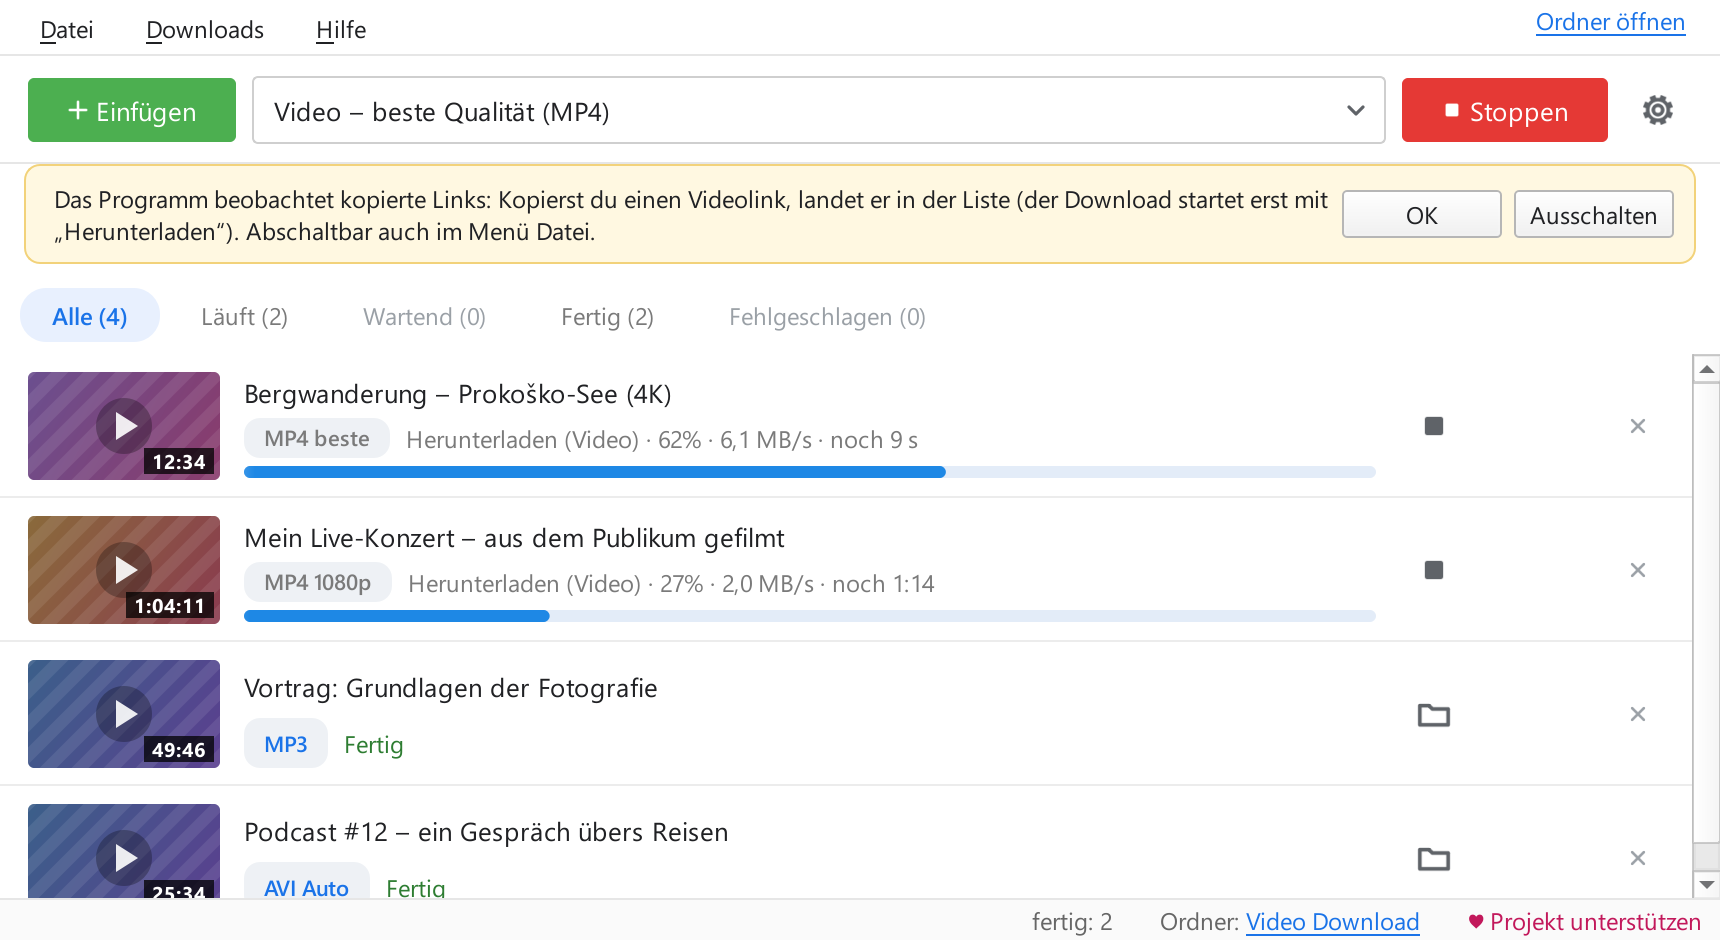
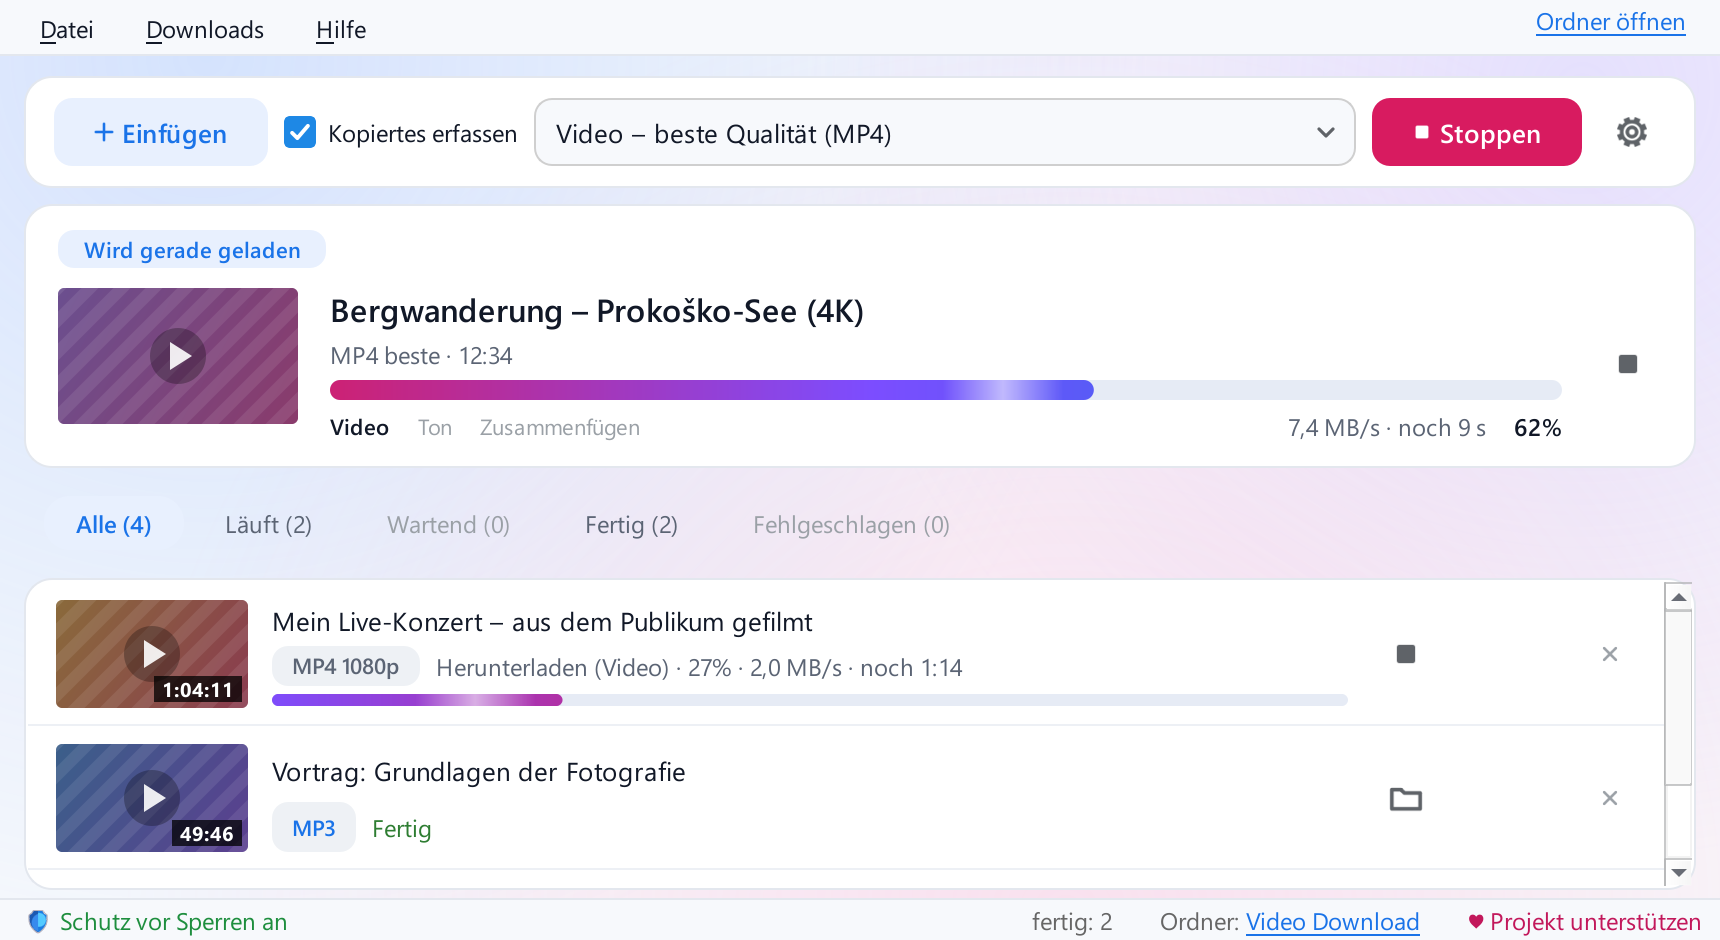
Sajt: novi snimci glavnog prozora s karticom „Sada i sljedeće" (5 jezika, svijetla i tamna tema)
tools/store_screenshots.py (koristi ga i site_screenshots.py): kartica dobija niz izmišljenih javljanja
napretka (traka, procenat, grafikon brzine), briše se prije svakog snimka (inače ostaje na prethodnom
jeziku), a snimak se pravi tek kad trake doklize do vrijednosti. Store snimci (1366×768) napravljeni u
Build/store-snimci, nisu u gitu.

diff --git a/tools/store_screenshots.py b/tools/store_screenshots.py
@@ -40,6 +40,7 @@ def shoot(window, app, lang: str, theme: str, out: Path) -> Path:
     for row in list(window._rows.values()):
         row.setParent(None)
     window._rows.clear()
+    window.now_panel.clear()  # nova lista počinje s istim brojevima stavki: kartica bi ostala na starom jeziku
     window._queue = DownloadQueue()  # aktivne stavke se ne daju ukloniti, pa nova prazna lista za svaki snimak
     titles = HOME[lang]["demo_titles"]
     states = (ItemStatus.ACTIVE, ItemStatus.ACTIVE, ItemStatus.DONE, ItemStatus.DONE)
@@ -56,12 +57,35 @@ def shoot(window, app, lang: str, theme: str, out: Path) -> Path:
             window._rows[item.id].show_progress(gui.format_progress(progress), fraction)
     window.preset_combo.setCurrentIndex(window.preset_combo.findData("best"))
     window._running = True  # dugme „Stop", kao dok preuzimanje traje
-    window._update_controls()
+    window._update_controls()  # kartica „Sada i sljedeće" preuzima prvi aktivni video
+    _feed_now_panel(window, window._queue.items()[0].id)
     window.resize(*SIZE)
-    app.processEvents()
+    _settle(app)
     path = out / f"store-{lang}-{theme}.png"
     window.grab().save(str(path))
     return path
+
+
+def _settle(app, seconds: float = 1.0) -> None:
+    """Trake napretka klize do vrijednosti (0,6 s); snimak tek kad stignu."""
+    import time
+
+    end = time.monotonic() + seconds
+    while time.monotonic() < end:
+        app.processEvents()
+        time.sleep(0.02)
+
+
+def _feed_now_panel(window, item_id: int) -> None:
+    """Kartica „Sada i sljedeće": niz izmišljenih javljanja napretka (brzina se malo mijenja, kao stvarno),
+    da se vide traka, procenat i grafikon brzine; završava na istih 62 % kao red u listi."""
+    import math
+
+    steps = 30
+    for step in range(1, steps + 1):
+        speed = 6.4e6 * (1 + 0.18 * math.sin(step * 0.7) + 0.07 * math.cos(step * 1.9))
+        fraction = 0.62 * step / steps
+        window.now_panel.update_progress(item_id, Progress("download", fraction, speed, 9, "progress.video"))
 
 
 def main() -> int:
